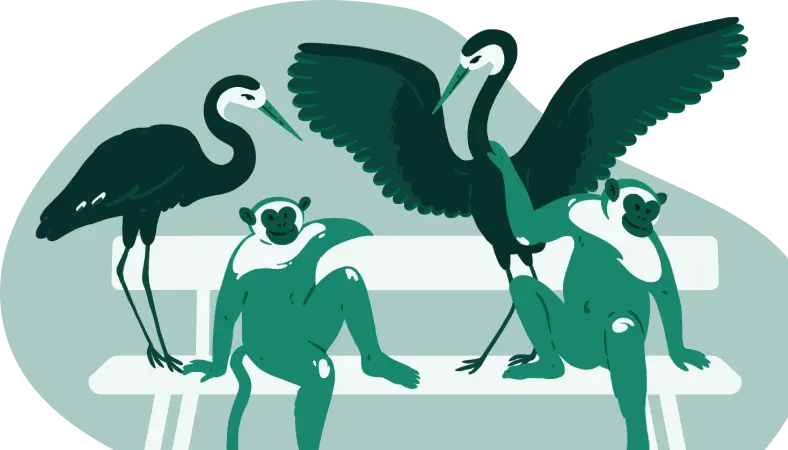
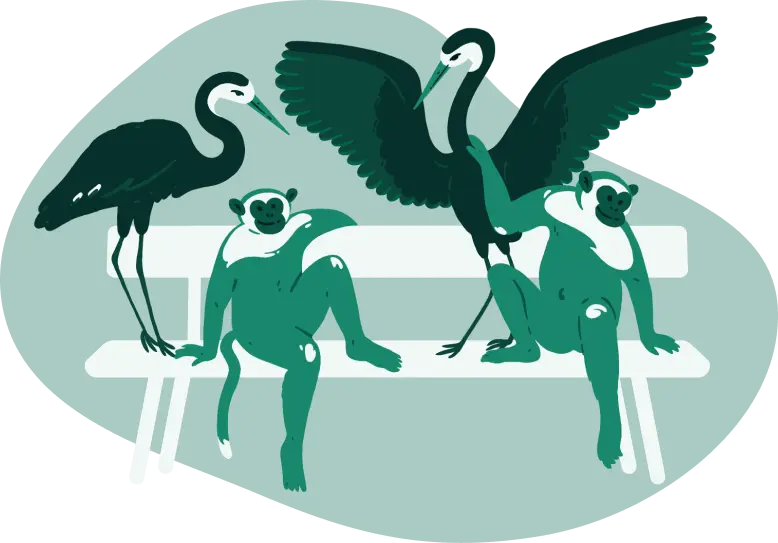
handle connection page

diff --git a/app/rewards/_components/connect-wallet-banner.tsx b/app/rewards/_components/connect-wallet-banner.tsx
@@ -1,33 +1,27 @@
 /* eslint-disable @next/next/no-img-element */
+import { useConnectModal } from "@rainbow-me/rainbowkit"
+
 import { Text } from "@/components/typography/text"
 import { Title } from "@/components/typography/title"
 import { Button } from "@/components/ui/button"
-import Link from "next/link"
 
-const BULLETS = [
-  "hold $100 equivalent in trading or liquidity provision",
-  "participation in testnet (hold a Mangrove NFT) or beta mainnet",
-]
-
-export function JoinProgramBanner() {
+export function ConnectWalletBanner() {
+  const { openConnectModal } = useConnectModal()
   return (
     <>
       <div className="w-full max-w-[1252px] bg-white text-primary-dark-green rounded-lg mx-auto flex">
         <div className="space-y-6 p-8 flex-1 flex flex-col justify-center">
-          <Title variant={"header1"}>Join MS1 Points Program!</Title>
-          <Title className="text-green-bangladesh" variant={"title3"}>
-            Become eligible through one of:
+          <Title variant={"header1"}>
+            Connect wallet to access MS1 Points Program!
           </Title>
-          <ul className="list-disc !ml-4 !m-0">
-            {BULLETS.map((bullet) => (
-              <Text variant={"text2"} as={"li"} key={bullet}>
-                {bullet}
-              </Text>
-            ))}
-          </ul>
           <span>
-            <Button variant={"tertiary"} size={"md"} className="px-5" asChild>
-              <Link href={"/trade"}>Trade now</Link>
+            <Button
+              variant={"tertiary"}
+              size={"lg"}
+              className="px-5"
+              onClick={openConnectModal}
+            >
+              Connect wallet
             </Button>
           </span>
         </div>
@@ -35,7 +29,7 @@ export function JoinProgramBanner() {
           <img
             src="/assets/rewards/join-program.webp"
             alt="Illustrations with mangrove animals sitting on a bench"
-            className="max-h-[300px] top-5 absolute right-10"
+            className="max-h-[250px] top-5 absolute right-10"
           />
         </div>
       </div>

diff --git a/app/rewards/page.tsx b/app/rewards/page.tsx
@@ -1,5 +1,7 @@
 "use client"
 
+import { useAccount } from "wagmi"
+import { ConnectWalletBanner } from "./_components/connect-wallet-banner"
 import CurrentBoost from "./_components/current-boost"
 import { JoinProgramBanner } from "./_components/join-program-banner"
 import NextLevel from "./_components/next-level"
@@ -8,7 +10,8 @@ import Rewards from "./_components/rewards"
 import TotalPoints from "./_components/total-points"
 
 export default function Page() {
-  return (
+  const { isConnected } = useAccount()
+  return isConnected ? (
     <div>
       <JoinProgramBanner />
       <div className="flex flex-col items-center md:flex-row md:items-start md:justify-between">
@@ -21,6 +24,10 @@ export default function Page() {
         <Rank className="col-span-full md:col-span-1" />
         <NextLevel className="col-span-full" />
       </div>
+    </div>
+  ) : (
+    <div>
+      <ConnectWalletBanner />
     </div>
   )
 }

diff --git a/app/rewards/layout.tsx b/app/rewards/layout.tsx
@@ -6,7 +6,7 @@ export default function Layout({ children }: React.PropsWithChildren) {
   return (
     <>
       <Navbar innerClasses="max-w-8xl mx-auto" />
-      <main className="max-w-5xl mx-auto px-4 pt-8 overflow-x-hidden">
+      <main className="max-w-5xl mx-auto px-4 pt-8 overflow-x-hidden mb-10">
         {children}
       </main>
     </>
